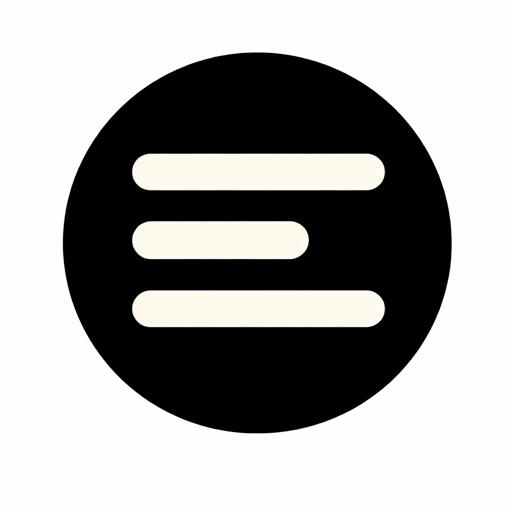
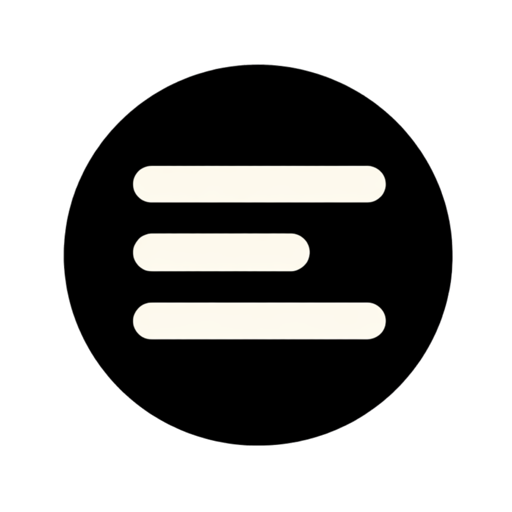
Header: shrink typography on small screens
Keep full header titles while allowing the logo, story link, and CTA to scale down smoothly on mobile to avoid crowding. Also update the tab icon asset.

Made-with: Cursor

diff --git a/components/Header.tsx b/components/Header.tsx
@@ -5,24 +5,26 @@ export default function Header() {
     <header className="fixed top-0 left-0 right-0 z-50 px-4 py-4 sm:px-6">
       <div className="relative mx-auto w-full max-w-6xl rounded-2xl border border-white/20 bg-white/10 px-3 py-2 backdrop-blur-xl sm:px-6 sm:py-3">
         <div className="grid w-full grid-cols-[auto_minmax(0,1fr)_auto] items-center gap-2 sm:gap-4">
-        <Link
-          href="/"
-          className="font-[var(--font-display)] text-[11px] font-semibold uppercase leading-none tracking-[0.14em] text-white sm:text-base sm:tracking-[0.35em] md:text-lg md:tracking-[0.4em]"
-        >
-          ENAMR HEALTH
-        </Link>
-        <Link
-          href="/our-story"
-          className="min-w-0 justify-self-center truncate whitespace-nowrap text-[11px] font-semibold leading-none text-white/90 transition hover:text-white sm:text-sm md:text-base"
-        >
-          Every Mouth Has a Story
-        </Link>
-        <Link
-          href="/#waitlist"
-          className="whitespace-nowrap rounded-full border border-white bg-transparent px-3 py-1.5 text-[11px] font-semibold leading-none text-white transition hover:bg-white hover:text-slate-900 sm:px-4 sm:py-2 sm:text-sm"
-        >
-          Try ENAMR
-        </Link>
+          <Link
+            href="/"
+            className="font-[var(--font-display)] text-[clamp(9px,2.6vw,11px)] font-semibold uppercase leading-none tracking-[0.1em] text-white sm:text-base sm:tracking-[0.35em] md:text-lg md:tracking-[0.4em]"
+          >
+            ENAMR HEALTH
+          </Link>
+
+          <Link
+            href="/our-story"
+            className="min-w-0 justify-self-center whitespace-nowrap text-center text-[clamp(9px,2.7vw,12px)] font-semibold leading-none text-white/90 transition hover:text-white sm:text-sm md:text-base"
+          >
+            Every Mouth Has a Story
+          </Link>
+
+          <Link
+            href="/#waitlist"
+            className="whitespace-nowrap rounded-full border border-white bg-transparent px-2.5 py-1.5 text-[clamp(9px,2.6vw,11px)] font-semibold leading-none text-white transition hover:bg-white hover:text-slate-900 sm:px-4 sm:py-2 sm:text-sm"
+          >
+            Try ENAMR
+          </Link>
         </div>
       </div>
     </header>
